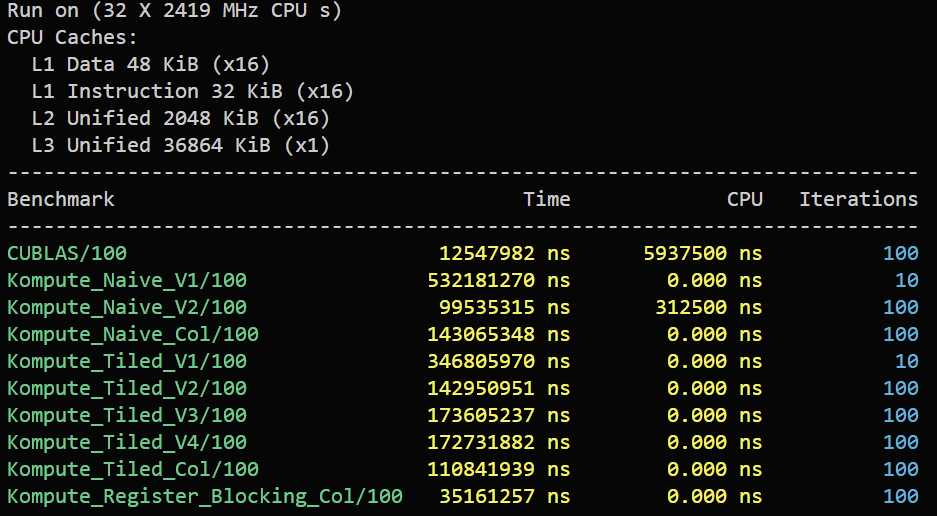
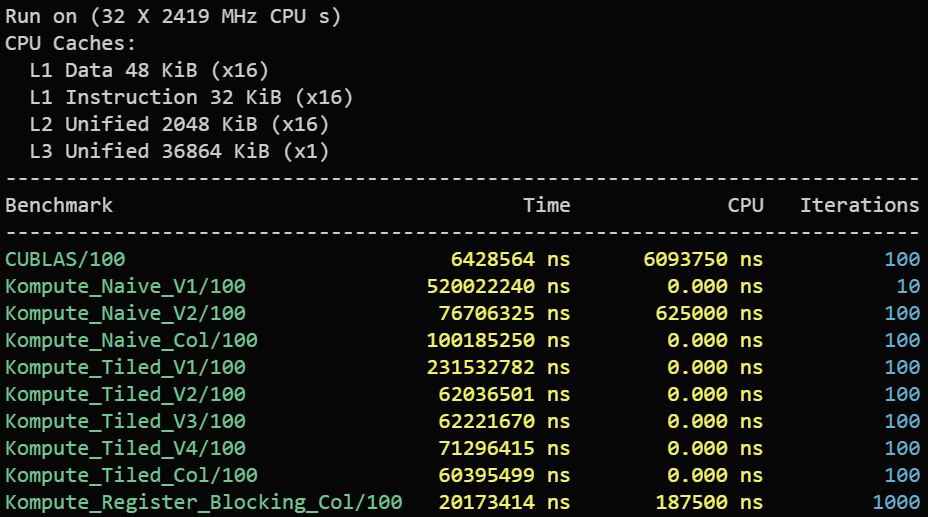
Remove memory copy from Host->Device from benchmark * Update benchmark image and results.

Changed region(s): [[0.0, 0.0, 1.0, 0.9922]]

diff --git a/src/benchmark/sgemm_benchmark.cpp b/src/benchmark/sgemm_benchmark.cpp
@@ -61,8 +61,7 @@ static void Kompute_Naive_V1(benchmark::State& state) {
     mgr.sequence()
         ->record<kp::OpSyncDevice>({tensorA, tensorB})
         ->record<kp::OpAlgoDispatch>(algo)
-        ->record<kp::OpSyncLocal>({tensorC})
-        ->eval();
+        ->eval();  // blocks until completion - appends a barrier
   }
 }
 
@@ -93,7 +92,6 @@ static void Kompute_Naive_V2(benchmark::State& state) {
     mgr.sequence()
         ->record<kp::OpSyncDevice>({tensorA, tensorB})
         ->record<kp::OpAlgoDispatch>(algo)
-        ->record<kp::OpSyncLocal>({tensorC})
         ->eval();
   }
 }
@@ -129,7 +127,6 @@ static void Kompute_Naive_Col(benchmark::State& state) {
     mgr.sequence()
         ->record<kp::OpSyncDevice>({tensorA, tensorB})
         ->record<kp::OpAlgoDispatch>(algo)
-        ->record<kp::OpSyncLocal>({tensorC})
         ->eval();
   }
 }
@@ -162,7 +159,6 @@ static void Kompute_Tiled_V1(benchmark::State& state) {
     mgr.sequence()
         ->record<kp::OpSyncDevice>({tensorA, tensorB})
         ->record<kp::OpAlgoDispatch>(algo)
-        ->record<kp::OpSyncLocal>({tensorC})
         ->eval();
   }
 }
@@ -194,7 +190,6 @@ static void Kompute_Tiled_V2(benchmark::State& state) {
     mgr.sequence()
         ->record<kp::OpSyncDevice>({tensorA, tensorB})
         ->record<kp::OpAlgoDispatch>(algo)
-        ->record<kp::OpSyncLocal>({tensorC})
         ->eval();
   }
 }
@@ -226,7 +221,6 @@ static void Kompute_Tiled_V3(benchmark::State& state) {
     mgr.sequence()
         ->record<kp::OpSyncDevice>({tensorA, tensorB})
         ->record<kp::OpAlgoDispatch>(algo)
-        ->record<kp::OpSyncLocal>({tensorC})
         ->eval();
   }
 }
@@ -258,7 +252,6 @@ static void Kompute_Tiled_V4(benchmark::State& state) {
     mgr.sequence()
         ->record<kp::OpSyncDevice>({tensorA, tensorB})
         ->record<kp::OpAlgoDispatch>(algo)
-        ->record<kp::OpSyncLocal>({tensorC})
         ->eval();
   }
 }
@@ -294,7 +287,6 @@ static void Kompute_Tiled_Col(benchmark::State& state) {
     mgr.sequence()
         ->record<kp::OpSyncDevice>({tensorA, tensorB})
         ->record<kp::OpAlgoDispatch>(algo)
-        ->record<kp::OpSyncLocal>({tensorC})
         ->eval();
   }
 }
@@ -338,7 +330,6 @@ static void Kompute_Register_Blocking_Col(benchmark::State& state) {
     mgr.sequence()
         ->record<kp::OpSyncDevice>({tensorA, tensorB})
         ->record<kp::OpAlgoDispatch>(algo)
-        ->record<kp::OpSyncLocal>({tensorC})
         ->eval();
   }
 }
@@ -369,8 +360,7 @@ static void CUBLAS(benchmark::State& state) {
   for (auto _ : state) {
     CHECK_CUBLAS(cublasSgemm(handle, CUBLAS_OP_N, CUBLAS_OP_N, N, M, K, &alpha,
                              d_B, N, d_A, K, &beta, d_C, N));
-    CHECK_CUDA(cudaMemcpy(C.data(), d_C, M * N * sizeof(float),
-                          cudaMemcpyDeviceToHost));
+    CHECK_CUDA(cudaDeviceSynchronize());
   }
   CHECK_CUDA(cudaFree(d_A));
   CHECK_CUDA(cudaFree(d_B));

diff --git a/README.md b/README.md
@@ -35,7 +35,7 @@ The benchmark executables have "benchmark" in their name.
 ## Results
 
 ### cuBLAS vs Kompute naive vs Kompute GEMM Tiling in Local Memory
-<!-- ![cuBLAS vs Kompute naive vs Kompute GEMM Tiling in Local Memory](./images/sgemm_benchmark.png =937x516) -->
+<!-- ![cuBLAS vs Kompute naive vs Kompute GEMM Tiling in Local Memory](./images/sgemm_benchmark.png =928x517) -->
 <img src="./images/sgemm_benchmark.png" width="642" height="354" alt="cuBLAS vs Kompute naive vs Kompute GEMM Tiling in Local Memory">
 
 <br> <br>
@@ -43,9 +43,9 @@ The benchmark executables have "benchmark" in their name.
 
 ### Discussion
 
-* Fastest Naive implementation is about 0.12x of cuBLAS performance.
-* Fastest Tiling Implementation is about 0.1x of cuBLAS performance.
-* 2D register blocking achieves about 0.35x of cuBLAS performance.
+* Fastest Naive implementation is about `0.08x` of cuBLAS performance.
+* Fastest Tiling Implementation is about `0.11x` of cuBLAS performance.
+* 2D register blocking achieves about `0.32x` of cuBLAS performance.
 
 There are still various optimizations that can be done to improve performance.
 
@@ -55,12 +55,12 @@ There are still various optimizations that can be done to improve performance.
 - [ ] Transposed input matrix.
 - [ ] More work per thread.
 - [ ] Wider loads with register blocking.
-- [X] 2D register blocking.
+- [x] 2D register blocking.
 
 ## Todo
-- [ ] Compare cuBLAS sgemm against Kompute using various GEMMs methods.
+- [x] Compare cuBLAS sgemm against Kompute using various GEMMs methods.
 - [ ] Try half precision cuBLAS hgemms vs Kompute HGEMMs - Using Vulkan half floats.
-- [ ] Create Kompute Operations for these methods to ease use.
+- [ ] Create Kompute Operations for these methods to ease usage.
 
 ## References
 * [`Matrix multiplication in WebGL2-compute`](https://www.ibiblio.org/e-notes/webgl/gpu/mul/sgemm.htm)
